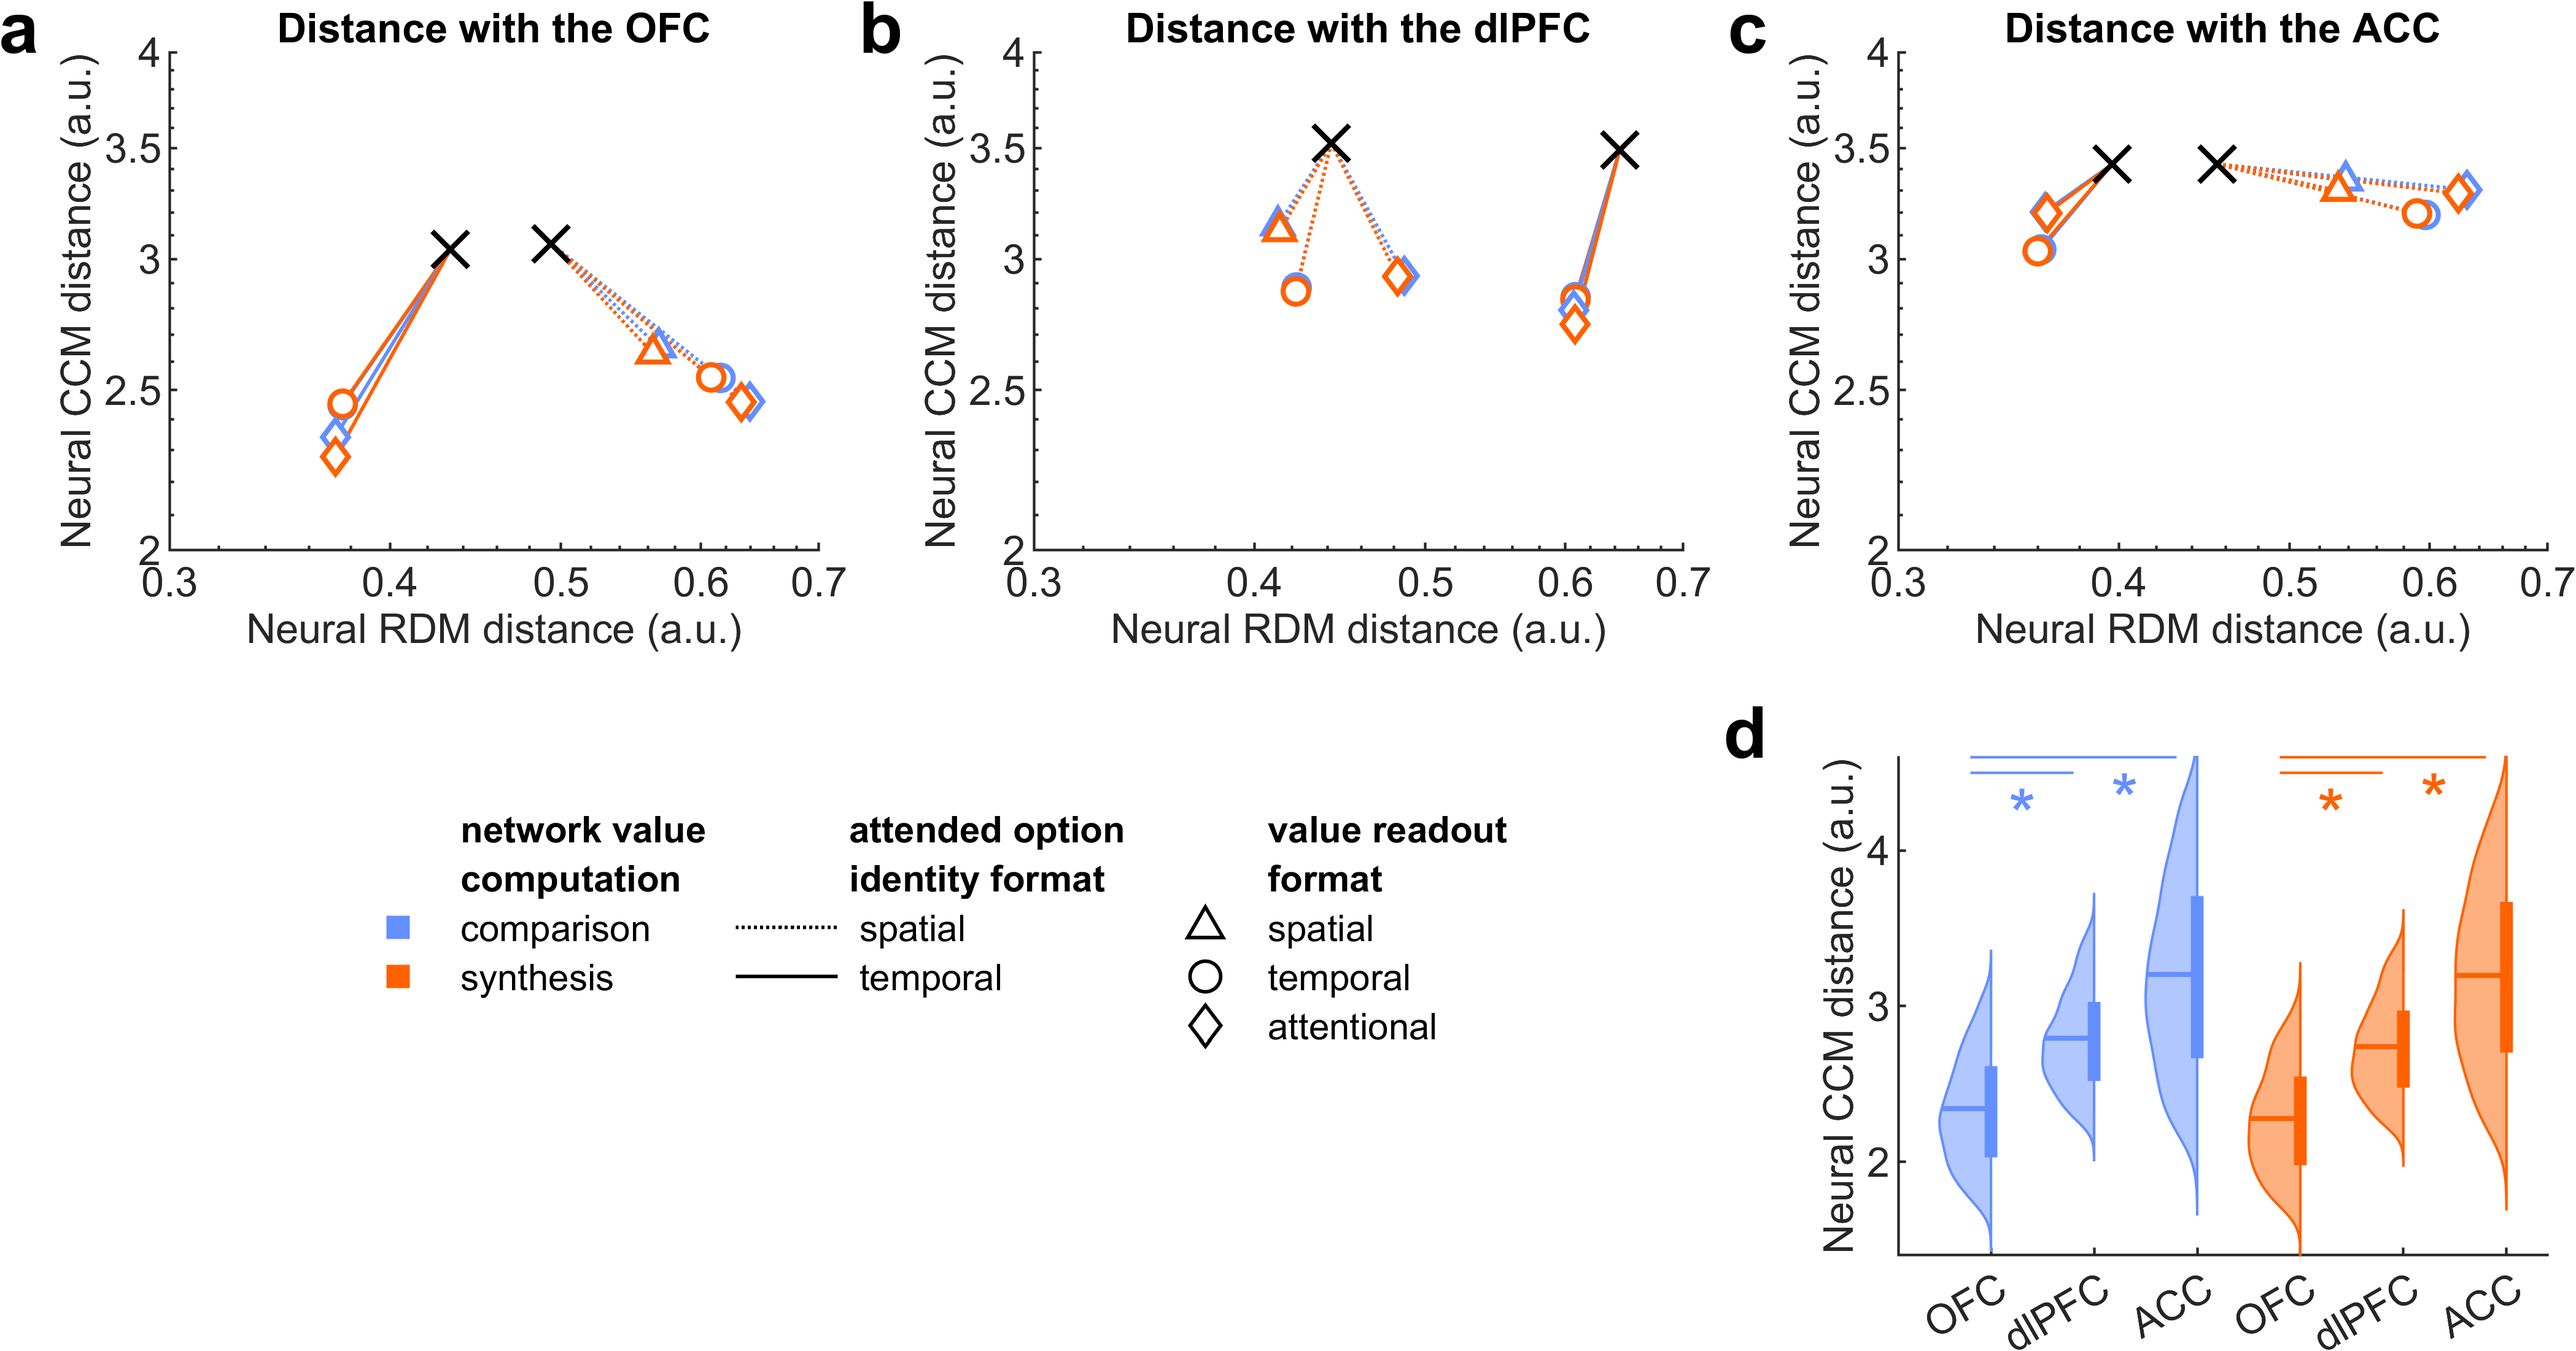
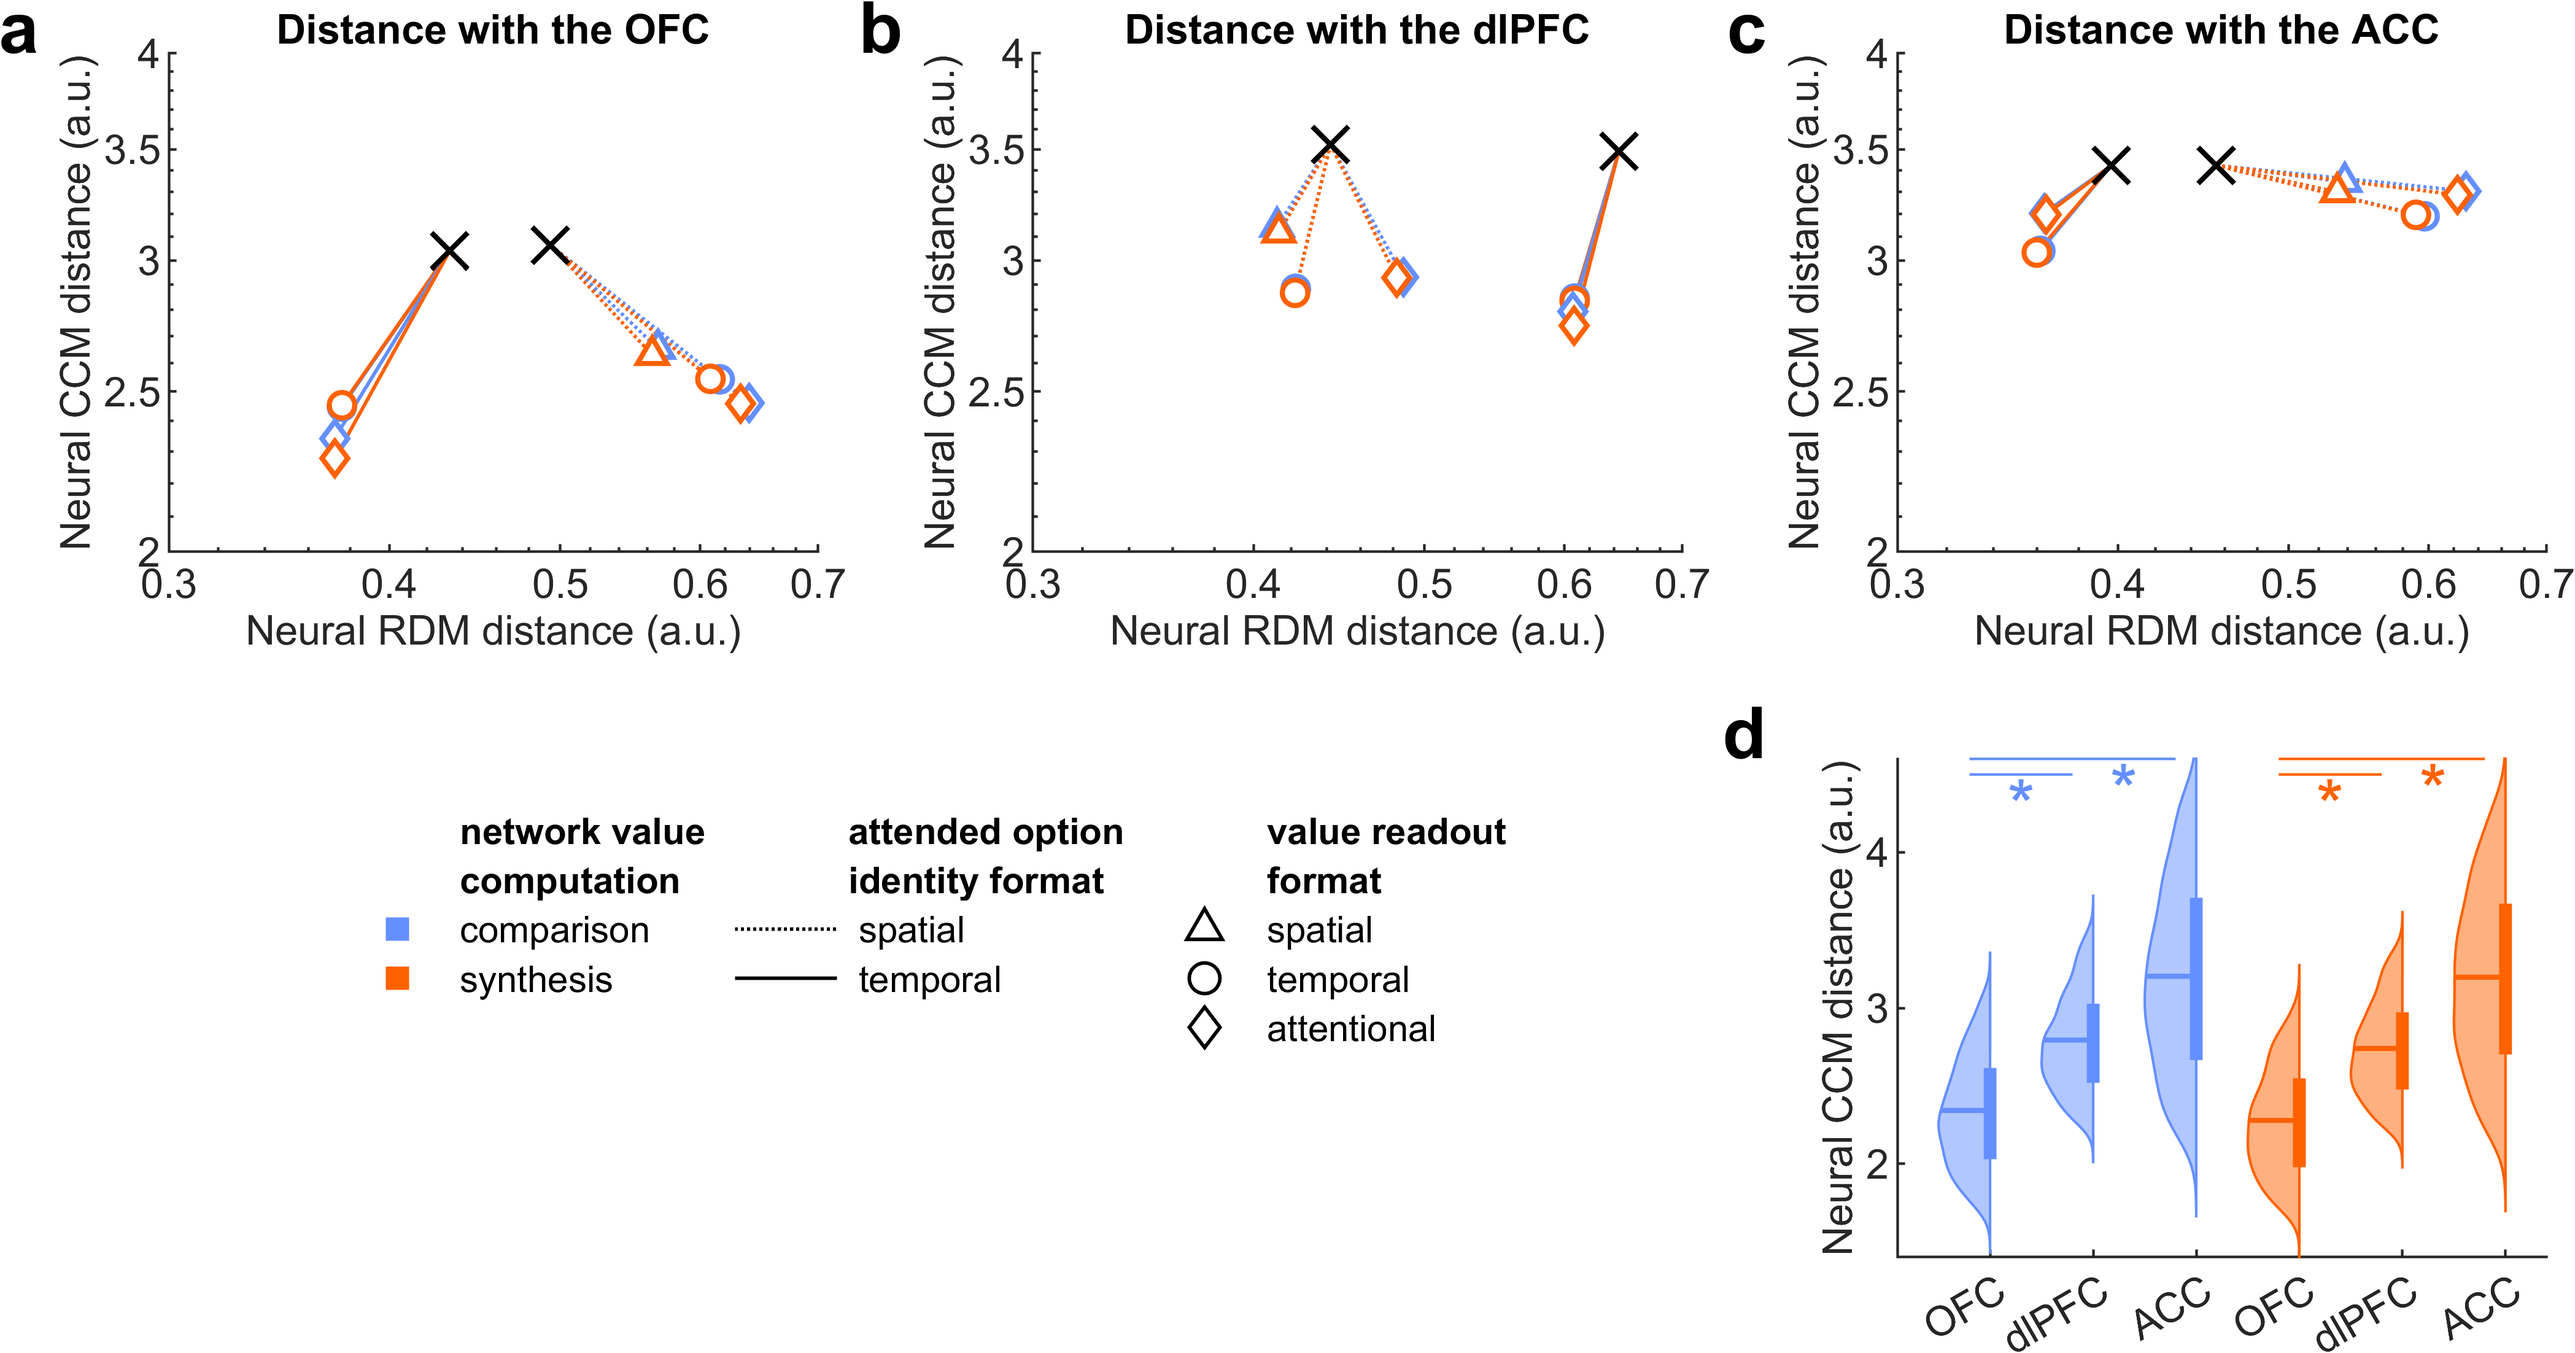
Aesthetic changes

diff --git a/src/plots/figS8_tolerance_disconnections.m b/src/plots/figS8_tolerance_disconnections.m
@@ -27,15 +27,12 @@ DataFranck = loadMeasureResults([...
         "config_ID", "is_rational", "is_irrational", ...
         "avg_prop_optimal_impaired_connec"], "irrational_Franck_last");
 
-% DataMiles = DataFranck;
 DataMiles = loadMeasureResults([...
         "config_ID", "is_rational", "is_irrational", "fit_step", ...
         "avg_prop_optimal_impaired_connec"], "irrational_Miles_last");
 
 
 %% === Generate figure ====================================================
-
-close all;
 
 % Initialize the figure
 f = figure(...

diff --git a/src/plots/subplots/plotRobustnessToConnectionLesionsPerFit.m b/src/plots/subplots/plotRobustnessToConnectionLesionsPerFit.m
@@ -38,7 +38,7 @@ arguments
     plot_options.line_y_coord_top (1, 1) double = 0.6099
     plot_options.line_x_shift (1, 1) double = - 0.2
     plot_options.line_y_coord_bottom (1, 1) double = 0.59
-    plot_options.star_y_shift (1, 1) double = 0.008
+    plot_options.star_y_shift (1, 1) double = 0.009
     plot_options.star_size (1, 1) double = 14
 end
 

diff --git a/src/plots/subplots/plotCCMdistanceDistribPerArea.m b/src/plots/subplots/plotCCMdistanceDistribPerArea.m
@@ -27,7 +27,7 @@ arguments
     plot_options.line_y_coord_top (1, 1) = 4.599
     plot_options.line_x_shift (1, 1) double = - 0.2
     plot_options.line_y_shift (1, 1) double = 0.1
-    plot_options.star_bottom_shift (1, 1) double = - 0.27
+    plot_options.star_bottom_shift (1, 1) double = - 0.2
 end
 
 hold(ax, "on");

diff --git a/src/plots/subplots/plotMonkeyChoiceDifficulty.m b/src/plots/subplots/plotMonkeyChoiceDifficulty.m
@@ -1,5 +1,5 @@
 function [] = plotMonkeyChoiceDifficulty(ax, ChoiceDifficulty, plot_options)
-% Code for figure 4d and 4e.
+% Code for figure S6.
 %
 % INPUTS ------------------------------------------------------------------
 % ax : <matlab.graphics.axis.Axes 1x1>
